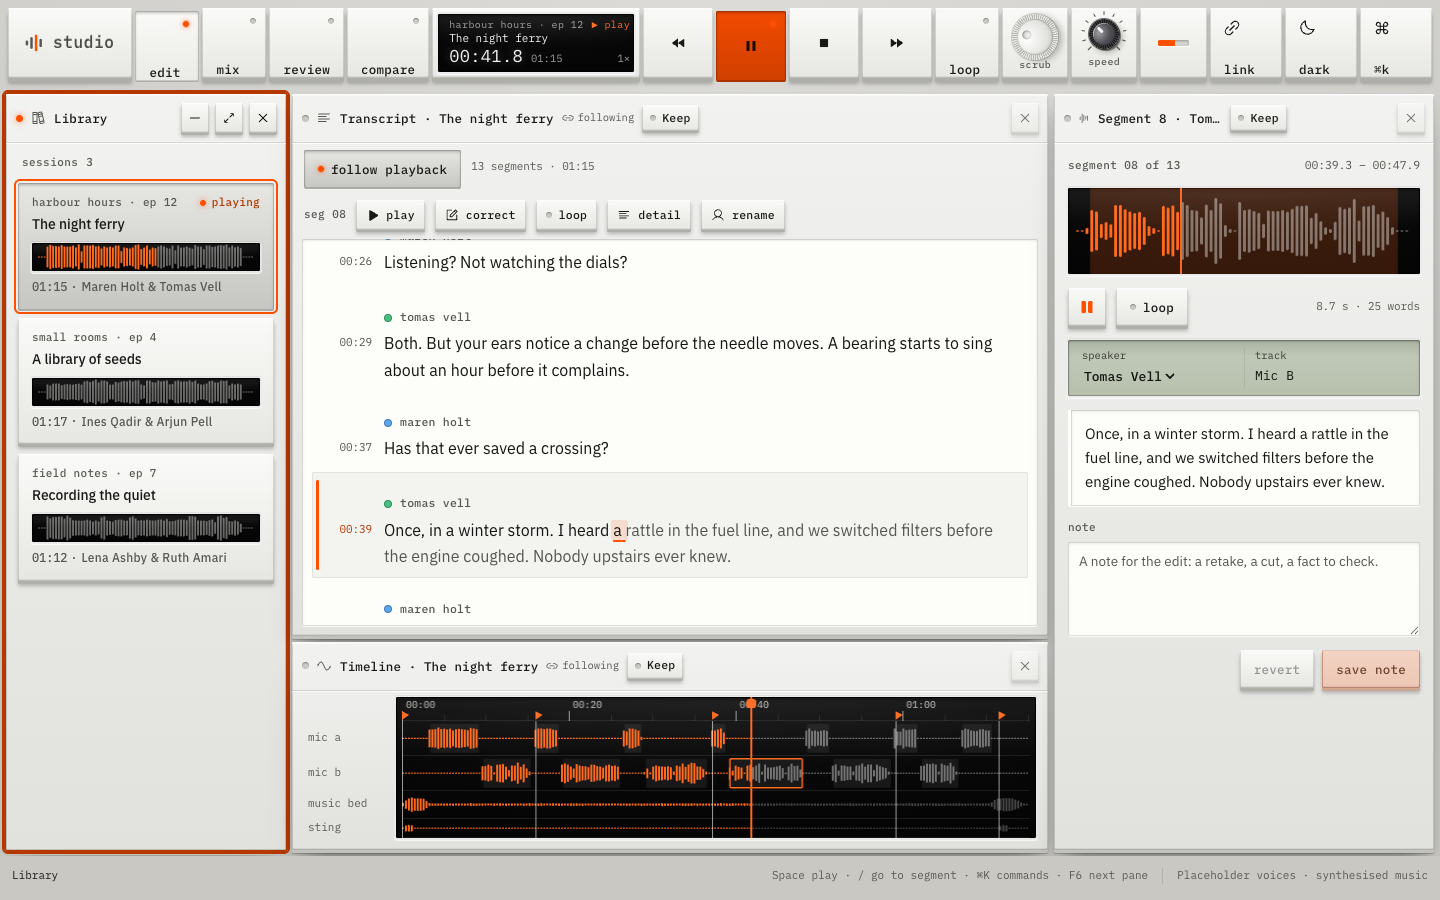
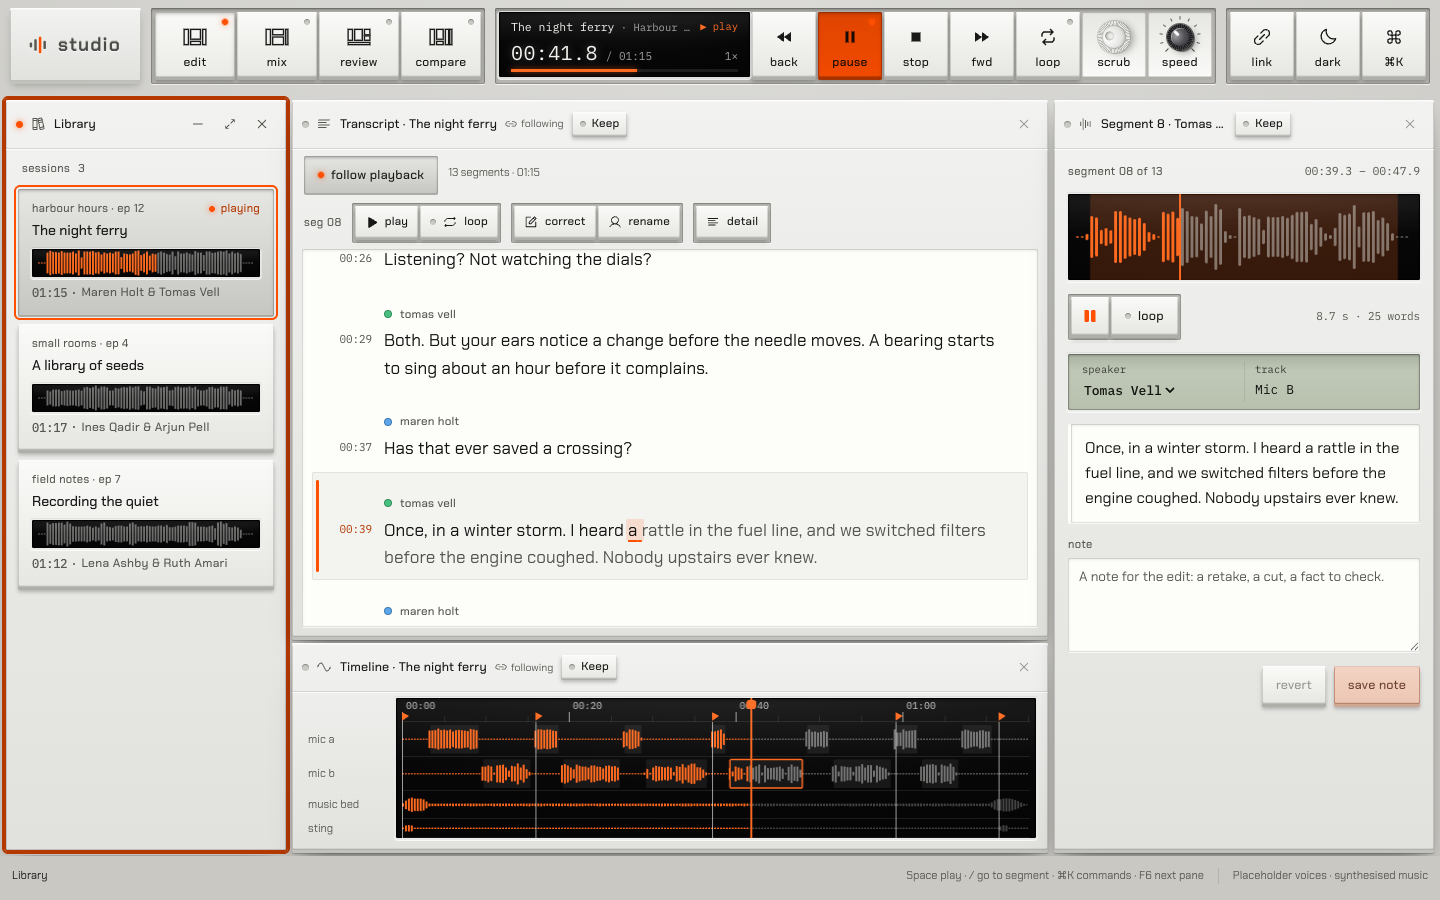
Studio example: screenshots with header-button close-ups, README type and grouping notes, new theming gaps

diff --git a/examples/studio/e2e/screens.spec.ts b/examples/studio/e2e/screens.spec.ts
@@ -77,3 +77,35 @@ for (const [name, width, height, dark] of [
     await page.locator(".topbar").screenshot({ path: shot(name) });
   });
 }
+
+// The header-button treatments (a temporary comparison switch, ui/headerButtons.ts), each light and dark: the
+// headers of the first three panes, with the pointer over the transcript's close button.
+for (const [letter, variant] of [
+  ["a", "printed"],
+  ["b", "wells"],
+  ["c", "strip"],
+  ["d", "round"],
+] as const) {
+  for (const dark of [false, true]) {
+    test(`header buttons ${variant}${dark ? " dark" : ""}`, async ({ page }) => {
+      await page.setViewportSize({ width: 1100, height: 700 });
+      await page.emulateMedia({ colorScheme: dark ? "dark" : "light", reducedMotion: "reduce" });
+      await page.addInitScript(
+        (v) => localStorage.setItem("studio:header-buttons", JSON.stringify(v)),
+        variant,
+      );
+      await page.goto("/");
+      await expect(page.locator(".jali-pane").first()).toBeVisible();
+      await page.waitForTimeout(800);
+      const box = (await page.locator(".jali-pane").first().boundingBox())!;
+      await page
+        .locator('.jali-pane[data-pane="transcript"] .jali-pane-actions button')
+        .last()
+        .hover();
+      await page.screenshot({
+        path: shot(`header-buttons-${letter}${dark ? "-dark" : ""}`),
+        clip: { x: 0, y: box.y - 4, width: 1100, height: 60 },
+      });
+    });
+  }
+}

diff --git a/examples/studio/src/shell/TopBar.tsx b/examples/studio/src/shell/TopBar.tsx
@@ -167,7 +167,8 @@ function Transport() {
       <div className="screen player-display">
         <div className="pd-line">
           <span className="pd-show">
-            <span className="pd-title">{session.title}</span> · {session.show} · ep {session.episode}
+            <span className="pd-title">{session.title}</span> · {session.show} · ep{" "}
+            {session.episode}
           </span>
           <span className="pd-state" role="status">
             {t.status === "loading"
@@ -189,13 +190,19 @@ function Transport() {
         </div>
       </div>
       {key("Back 5 seconds", "back", "back", () => engine.skip(-5))}
-      {key(t.playing ? "Pause" : "Play", t.playing ? "pause" : "play", t.playing ? "pause" : "play", () => engine.toggle(), {
-        className: "key-accent key-play",
-        latch: true,
-        disabled: !ready,
-        on: t.playing,
-        title: `${t.playing ? "Pause" : "Play"} (Space)`,
-      })}
+      {key(
+        t.playing ? "Pause" : "Play",
+        t.playing ? "pause" : "play",
+        t.playing ? "pause" : "play",
+        () => engine.toggle(),
+        {
+          className: "key-accent key-play",
+          latch: true,
+          disabled: !ready,
+          on: t.playing,
+          title: `${t.playing ? "Pause" : "Play"} (Space)`,
+        },
+      )}
       {key(
         "Stop",
         "stop",

diff --git a/examples/studio/src/ui/headerButtons.ts b/examples/studio/src/ui/headerButtons.ts
@@ -7,10 +7,18 @@
 import { saved } from "../store";
 
 export const HEADER_BUTTONS = [
-  { id: "printed", label: "Printed glyphs", hint: "A: no cap at rest; a shallow key on hover and press" },
+  {
+    id: "printed",
+    label: "Printed glyphs",
+    hint: "A: no cap at rest; a shallow key on hover and press",
+  },
   { id: "wells", label: "Recessed wells", hint: "B: small flush buttons sunk into the plate" },
   { id: "strip", label: "One low strip", hint: "C: the three joined in a thin segmented strip" },
-  { id: "round", label: "Round push-buttons", hint: "D: small round caps, the icon printed on them" },
+  {
+    id: "round",
+    label: "Round push-buttons",
+    hint: "D: small round caps, the icon printed on them",
+  },
 ] as const;
 export type HeaderButtons = (typeof HEADER_BUTTONS)[number]["id"];
 
@@ -28,5 +36,6 @@ export function setHeaderButtons(v: HeaderButtons) {
 
 /** At start-up: the remembered treatment onto the page. */
 export function applyHeaderButtons() {
-  if (typeof document !== "undefined") document.documentElement.dataset.headerButtons = headerButtons();
+  if (typeof document !== "undefined")
+    document.documentElement.dataset.headerButtons = headerButtons();
 }

diff --git a/examples/studio/e2e/studio.spec.ts b/examples/studio/e2e/studio.spec.ts
@@ -28,7 +28,7 @@ test("the library drives the transcript and the timeline", async ({ page }) => {
   await expect(list.getByRole("option", { selected: true })).toContainText("A library of seeds");
   await expect(header(page, "transcript")).toContainText("A library of seeds");
   await expect(header(page, "timeline")).toContainText("A library of seeds");
-  await expect(page.locator(".tp-title")).toHaveText("A library of seeds");
+  await expect(page.locator(".pd-title")).toHaveText("A library of seeds");
 });
 
 test("Space plays and pauses from inside a pane, and the playhead moves", async ({ page }) => {

diff --git a/examples/studio/src/panes/transcript.tsx b/examples/studio/src/panes/transcript.tsx
@@ -10,7 +10,13 @@
  * E edits it, L loops it, ⇧Space peeks it, ⌘S saves. Space is the transport's.
  */
 import { useEffect, useLayoutEffect, useMemo, useRef, useState, type KeyboardEvent } from "react";
-import { NotePencilIcon, PlayIcon, RepeatIcon, TextAlignLeftIcon, UserIcon } from "@phosphor-icons/react";
+import {
+  NotePencilIcon,
+  PlayIcon,
+  RepeatIcon,
+  TextAlignLeftIcon,
+  UserIcon,
+} from "@phosphor-icons/react";
 import { keyHint } from "@jali/core";
 import {
   definePane,

diff --git a/examples/studio/src/styles/chrome.css b/examples/studio/src/styles/chrome.css
@@ -346,3 +346,11 @@
     border-radius: var(--corner);
   }
 }
+
+@layer app {
+  /* A row's name stays on one line (Chakra Petch runs wide); reached as its first child, which has no public
+     selector. */
+  .jali-palette-item > :first-child {
+    white-space: nowrap;
+  }
+}

diff --git a/examples/studio/README.md b/examples/studio/README.md
@@ -60,18 +60,24 @@ Every audio tool plays and pauses with Space, and Jali's lists use Space to peek
 
 Studio looks like a set of hardware modules on a desk. It is inspired by a design language of small audio instruments, not a copy of any product: there are no product names, model numbers or logos in it.
 
-- **The top row.** One full-width row of full-height blocks, tiled edge to edge with a 3px gap: the studio mark, the four layout keys, the transport's readout, back, play and pause (the one solid orange block), stop, forward, loop, scrub and speed, a filler plate with the session's progress cut into it as a groove, then link, theme and ⌘K. As the window narrows the row keeps its blocks and drops parts in order: the speed knob, then the layout keys fold into one layout block (a real `<select>` under its face), then the scrub wheel and loop, then link and stop. On a phone it becomes two rows of blocks, each still edge to edge.
+- **The top row.** One row of one height in four groups, the way a console groups its controls: identity (a name plate), layouts (edit, mix, review, compare), the player (its display, back, play, stop, forward, loop, then scrub and speed as a matched pair of rotary cells) and tools (link, theme, ⌘K). Inside a group the cells meet at a 2px seam in one recessed bezel; between groups there is a 10px gutter. The player's display takes the spare width, with the session's progress as a hairline track across its glass. Play is the one orange cap; it is the same size as its neighbours. As the window narrows, groups give way in order: the speed knob; then the layout keys fold into one layout key (a real `<select>` under its face); then the studio name and the display's title line; then scrub, loop and link; then stop. On a phone it becomes two rows: identity, layout and tools, then the player across the full width.
+- **The key face.** Every key in the row, and the larger keys in the panes, use one face: the glyph centred, its middle 8px above the key's middle; the legend centred under it on one baseline 9px from the foot; the lamp 7px in from the top right corner, only on keys that latch. Positions are fixed, so a longer legend or a latched key never moves its neighbours' baselines. A latched key doesn't travel: it shows its state with a darker face and its lit lamp. A press travels 1px. The layout keys carry a small plan of their layout as their glyph.
+- **Keysets.** In the panes, related keys share a bezel the same way: the transcript's segment keys in three sets (play and loop; correct and rename; detail), the segment detail's play and loop, each mixer strip's mute and solo.
 - **Bodies.** Each Jali pane is a faceplate: bead-blasted aluminium in light, with a lit top edge, a rim and a side wall at its foot. The mixer is black anodised beside them; in dark mode every device is black anodised. Seams are cut lines with a lit edge under them. No screws.
 - **Corners.** Square: one `--corner` token (2px) for every key, block, faceplate, glass, paper, menu and dialog, Jali's included. Only what is round by nature stays round: knobs, the jog wheel, fader caps and lamps.
 - **One set of parts.** `src/styles/parts.css` defines each part once (housing, tray, key in four sizes, latch, lamp, knob, jog, fader, readout, LCD, paper, legend), each rule listing the app's classes and Jali's public parts together. Everything button-like is one of them: the top row, pane header buttons, tabs, Keep, shelf chips, the phone switcher, palette and chooser rows, dialog buttons, the launcher, the library's session cards, the transcript's segment keys, mute and solo, loop, save and revert.
 - **Controls.** Keys stand in their holes (a 3 to 4px side wall) and travel down when pressed. A latched key (the layout in use, Follow playback, Loop, Mute, Solo, the shown tab) stays down with its lamp lit, so its state never rests on a shadow alone. The transport has four big square keys with an orange play legend and lamp, a loop latch, a knurled jog wheel to scrub and a speed knob. Pan is a rotary knob with a pointer and a printed scale, on blue, green, white and orange caps. Faders are round white caps riding in slots cut into the plate.
 - **Screens.** The waveforms, the timeline, the meters, the transport's readout and ⌘K's field sit behind black glass with light marks. The markers are dark print behind a grey-green LCD, and the segment detail's speaker and track sit in one too.
-- **Paper.** The transcript is read, so it is printed on a recessed sheet of paper rather than shown on a screen: 16px IBM Plex Sans, dark ink on near white (more than 15:1), light on near black in dark mode. Legends are IBM Plex Mono in lower case.
+- **Type.** One face, Chakra Petch, for everything printed: legends, keys, headers, the transcript and Jali's chrome (`--jali-font`). It has no tabular figures (its 1 is narrower than its 0), so a running clock would jitter. The numbers that tick, and what sits behind glass or on the LCD (the clock, timecodes, the timeline's ruler, dB values, the markers' times), are set in IBM Plex Mono (`--font-readout`).
+- **Paper.** The transcript is read, so it is printed on a recessed sheet of paper rather than shown on a screen: 17px Chakra Petch on a 1.62 line height (it runs wider and squarer than a text face, so a little larger and looser), dark ink on near white (more than 15:1), light on near black in dark mode.
+- **Header buttons (temporary comparison).** The pane header's tuck, maximise and close come in four treatments, to choose one: A printed glyphs (the default: no cap at rest, a shallow key on hover and press), B recessed wells, C one low strip, D small round push-buttons. ⌘K "Header buttons: printed / wells / strip / round…" switches them at runtime; the choice is kept on this device. The switch (`src/ui/headerButtons.ts` and its rules in `chrome.css`) is temporary and goes once one is chosen. Close-ups: `screens/header-buttons-{a,b,c,d}{,-dark}.png`.
 - **Colour.** Neutral bodies, Spoke's signal orange (#ff4f00) for the one primary key, lamps and what is live; blue, green and white only on encoder caps.
 - **How.** CSS gradients, inset and layered shadows, `repeating-conic-gradient` for the knurling, and SVG for the knob scales and transport glyphs. No photos or raster textures. Jali's chrome follows through its `--jali-*` tokens and rules on its public `jali-*` parts (`src/styles/chrome.css`); what could not be reached that way is in FINDINGS.md.
 - **Motion.** Keys travel 70ms with a mechanical ease and no bounce; under reduced motion they don't animate.
 
 ### Credits
+
+The typeface is [Chakra Petch](https://fonts.google.com/specimen/Chakra+Petch) by Cadson Demak, under the SIL Open Font License 1.1; the readouts use [IBM Plex Mono](https://github.com/IBM/plex), also under the SIL Open Font License 1.1.
 
 The way the bodies, keys and screens are built (a molded body with a lit top edge and a hard side-wall shadow, keys that drop by their wall when pressed, recessed glass with a lit lower lip, lower-case printed legends) takes ideas from [SPEC-01 Hardware](https://github.com/shuding/spec-01) by Shu Ding, MIT licence. No code, values or files were copied from it.
 

diff --git a/examples/studio/FINDINGS.md b/examples/studio/FINDINGS.md
@@ -157,6 +157,13 @@ The deeper restyle (one tiled top row, one set of parts for every button-like th
 14. **Pressed state.** Jali's buttons have no attribute while held; `:active` covers the pointer, but a key held from the keyboard (Space, Enter on a tab) shows no travel. Want: `data-pressed` while a Jali control is held, by pointer or key.
 15. **Folded tabs' treatment.** Italic is hard-coded for `data-folded`. Fine, but a token (`--jali-tab-folded-style`) would let a hardware theme print a dotted rim instead without fighting it.
 
+16. **Header buttons come and go per pane.** Which of tuck, maximise, full screen and close a header shows depends on the pane (a lone or allowed-less pane shows only close), so the "one low strip" treatment changes length from pane to pane, and a strip painted on the container showed an empty segment. Studio paints each button's part of the strip on the button itself. Want: a stable header shape (for example disabled rather than absent, as an option), or `data-count` on `.jali-pane-actions`.
+17. **Icon sizes in the header, again.** The round push-button treatment wanted a 12px glyph on a 20px cap; Jali renders its icons at 14px with a fixed `size`, so Studio overrides `.jali-pane-actions svg` width and height. Want the icon size tokens from item 12.
+18. **The header's layout is fixed.** The order is grip, title, Following and Keep, then the buttons; an app can't put its own control there or join Keep with the buttons in one set. Want: a header slot (`headerActions(pane)` returning app controls, placed by Jali) and a documented order.
+19. **Type sizes are per part, in rem.** Jali sets its own sizes on each part (about 30 rules: titles 0.8125rem, tabs, chips, menus, palette). A wider face (Chakra Petch) meant retuning size and tracking part by part. Want: a small type scale as tokens (`--jali-text-xs`, `-sm`, `-md`) that every part reads, and `--jali-tracking`.
+20. **No figures token.** Jali's own numbers (key hints, counts like "+2") follow `--jali-font-mono`. Studio points that at its main face and keeps a separate readout face for ticking numbers; Jali has no numbers that tick, so this is fine today, but a `--jali-font-numeric` would let an app choose tabular figures for Jali's counts too.
+21. **Palette and chooser rows' parts.** A row's name wrapped in Chakra Petch; it has no public selector (`.palette-title`, without even the `jali-` prefix), so Studio keeps it on one line as `.jali-palette-item > :first-child`. Want: the row's name, hint and keys as public parts.
+
 Not Jali's, for the record: making the top row one flex row of blocks meant grouping elements in `display: contents` wrappers that keep their roles (`navigation` "Layouts", `group` "Transport", "Tools"). Chrome exposes those roles; it is worth testing in other browsers before relying on it.
 
 ## What worked
